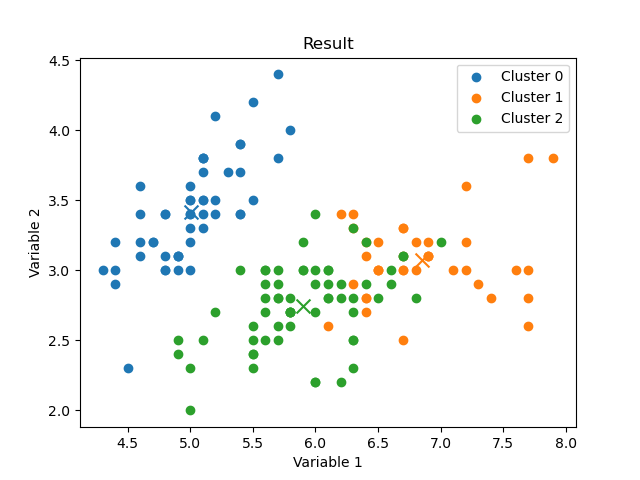
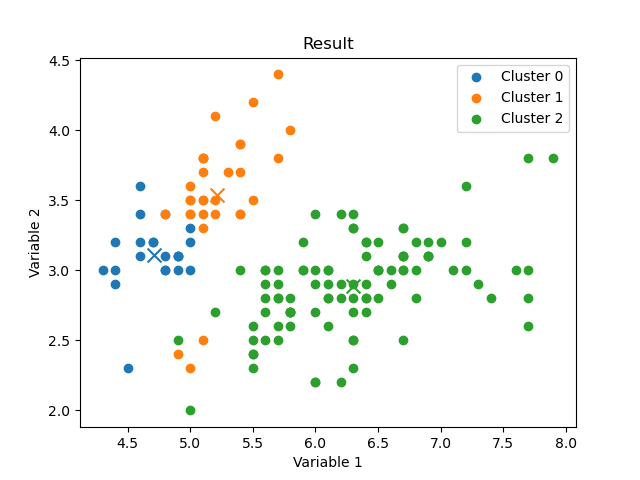
Add sklearn implementation, update k_means

diff --git a/sklearn_implementation.py b/sklearn_implementation.py
@@ -1,0 +1,11 @@
+from sklearn.cluster import KMeans
+import numpy as np
+import pandas as pd
+kmeans = KMeans(n_clusters=3)
+names = ['sepal_length','sepal_width','petal_length','petal_width','flower_name']
+df=pd.read_csv('./iris.data', names=names)
+del df['flower_name']
+data=np.asarray(df)
+kmeans.fit(data)
+
+print(kmeans.cluster_centers_)

diff --git a/k_means.py b/k_means.py
@@ -55,6 +55,7 @@ def main():
     X=np.array([f[:-1] for f in data])
     y=np.array([f[-1] for f in data])
     clusters, centros = k_means(X)
+    print(centros)
     show_clusters_centroids(clusters,centros,"Result", keep=True)
     plt.show()
 if __name__=="__main__":
